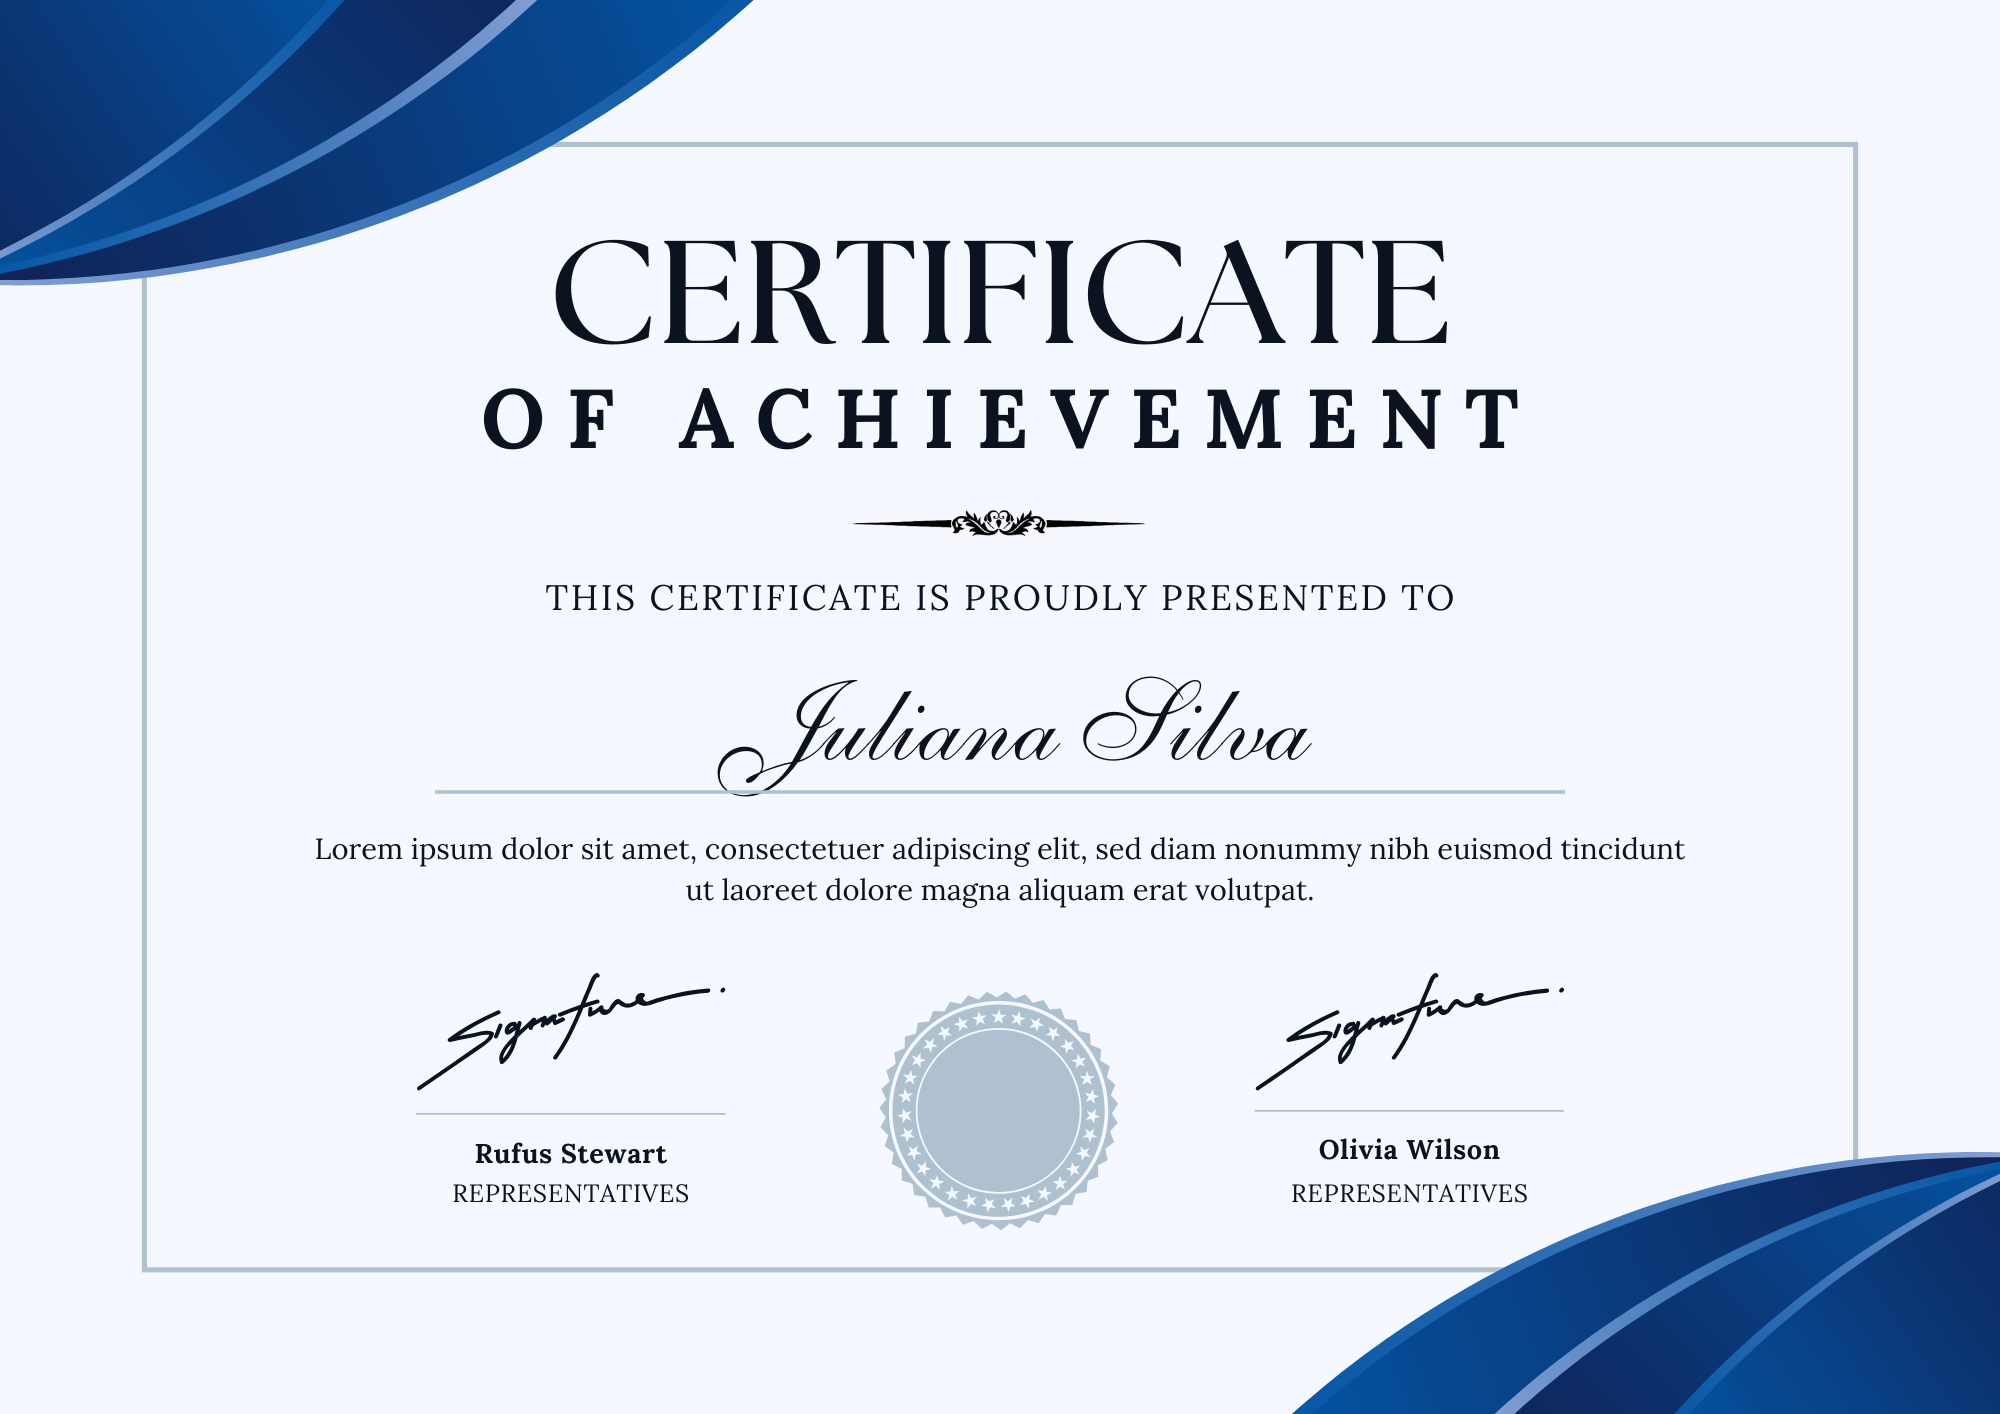
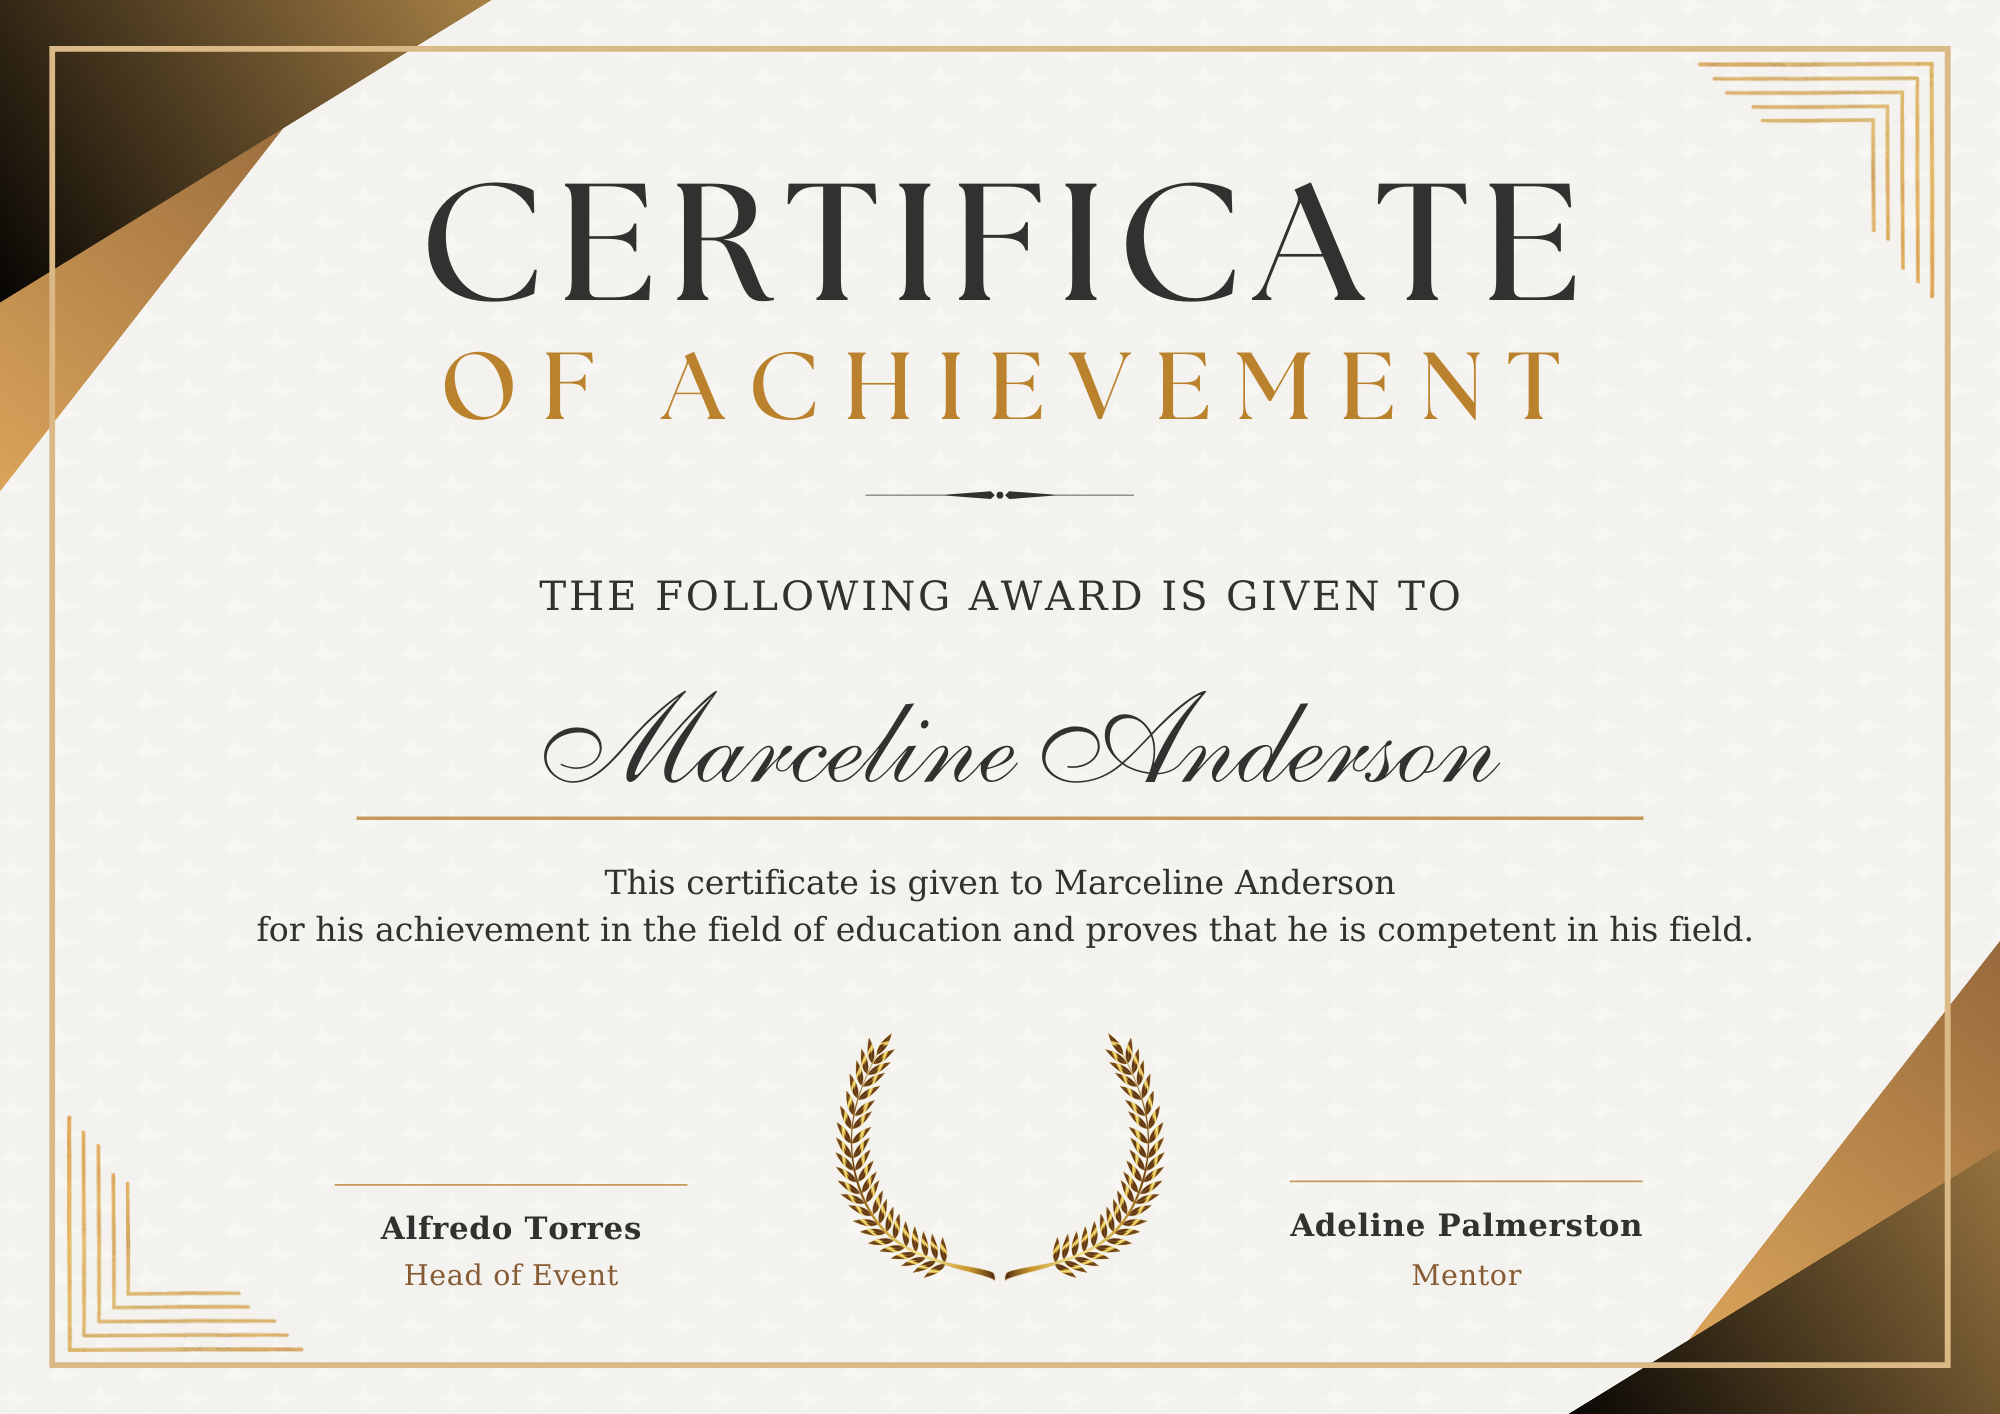
feat: created achievement certificate

diff --git a/src/app/template-two-form/template-two-form.component.ts b/src/app/template-two-form/template-two-form.component.ts
@@ -27,14 +27,21 @@ import { MatProgressSpinnerModule } from '@angular/material/progress-spinner';
       </mat-form-field>
 
       <mat-form-field appearance="fill">
-        <mat-label>representative 1</mat-label>
-        <input formControlName="representative1" type="text" matInput />
+        <mat-label>Field</mat-label>
+        <input formControlName="field" type="text" matInput />
         <mat-error>This field is required</mat-error>
       </mat-form-field>
 
       <mat-form-field appearance="fill">
-        <mat-label>representative 2</mat-label>
-        <input formControlName="representative2" type="text" matInput />
+        <mat-label>Head of Event</mat-label>
+        <input formControlName="head" type="text" matInput />
+        <mat-error>This field is required</mat-error>
+      </mat-form-field>
+
+
+      <mat-form-field appearance="fill">
+        <mat-label>Mentor</mat-label>
+        <input formControlName="mentor" type="text" matInput />
         <mat-error>This field is required</mat-error>
       </mat-form-field>
 
@@ -61,8 +68,9 @@ export class TemplateTwoFormComponent {
   name = '';
   form = this.fb.group({
     name: ['', Validators.required],
-    representative1: ['', Validators.required],
-    representative2: ['', Validators.required],
+    field: ['', Validators.required],
+    head: ['', Validators.required],
+    mentor: ['', Validators.required],
   });
 
   http = inject(HttpClient);
@@ -75,8 +83,9 @@ export class TemplateTwoFormComponent {
         'http://localhost:8080/certificates/generate-achievement-certificate',
         {
           name: this.form.value.name,
-          representative1: this.form.value.representative1,
-          representative2: this.form.value.representative2,
+          field: this.form.value.field,
+          head: this.form.value.head,
+          mentor: this.form.value.mentor,
         }
       )
       .subscribe(() => {

diff --git a/src/app/template-one-form/template-one-form.component.ts b/src/app/template-one-form/template-one-form.component.ts
@@ -80,7 +80,7 @@ export class TemplateOneFormComponent {
     this.name = this.form.value.name!;
     this.http
       .post(
-        'http://localhost:8080/certificates/generate-participation-certificate',
+        'http://localhost:8080/certificates/generate-appreciation-certificate',
         { name: this.form.value.name, representative1: this.form.value.repre1, representative2: this.form.value.repre2 }
       )
       .subscribe(() => {
